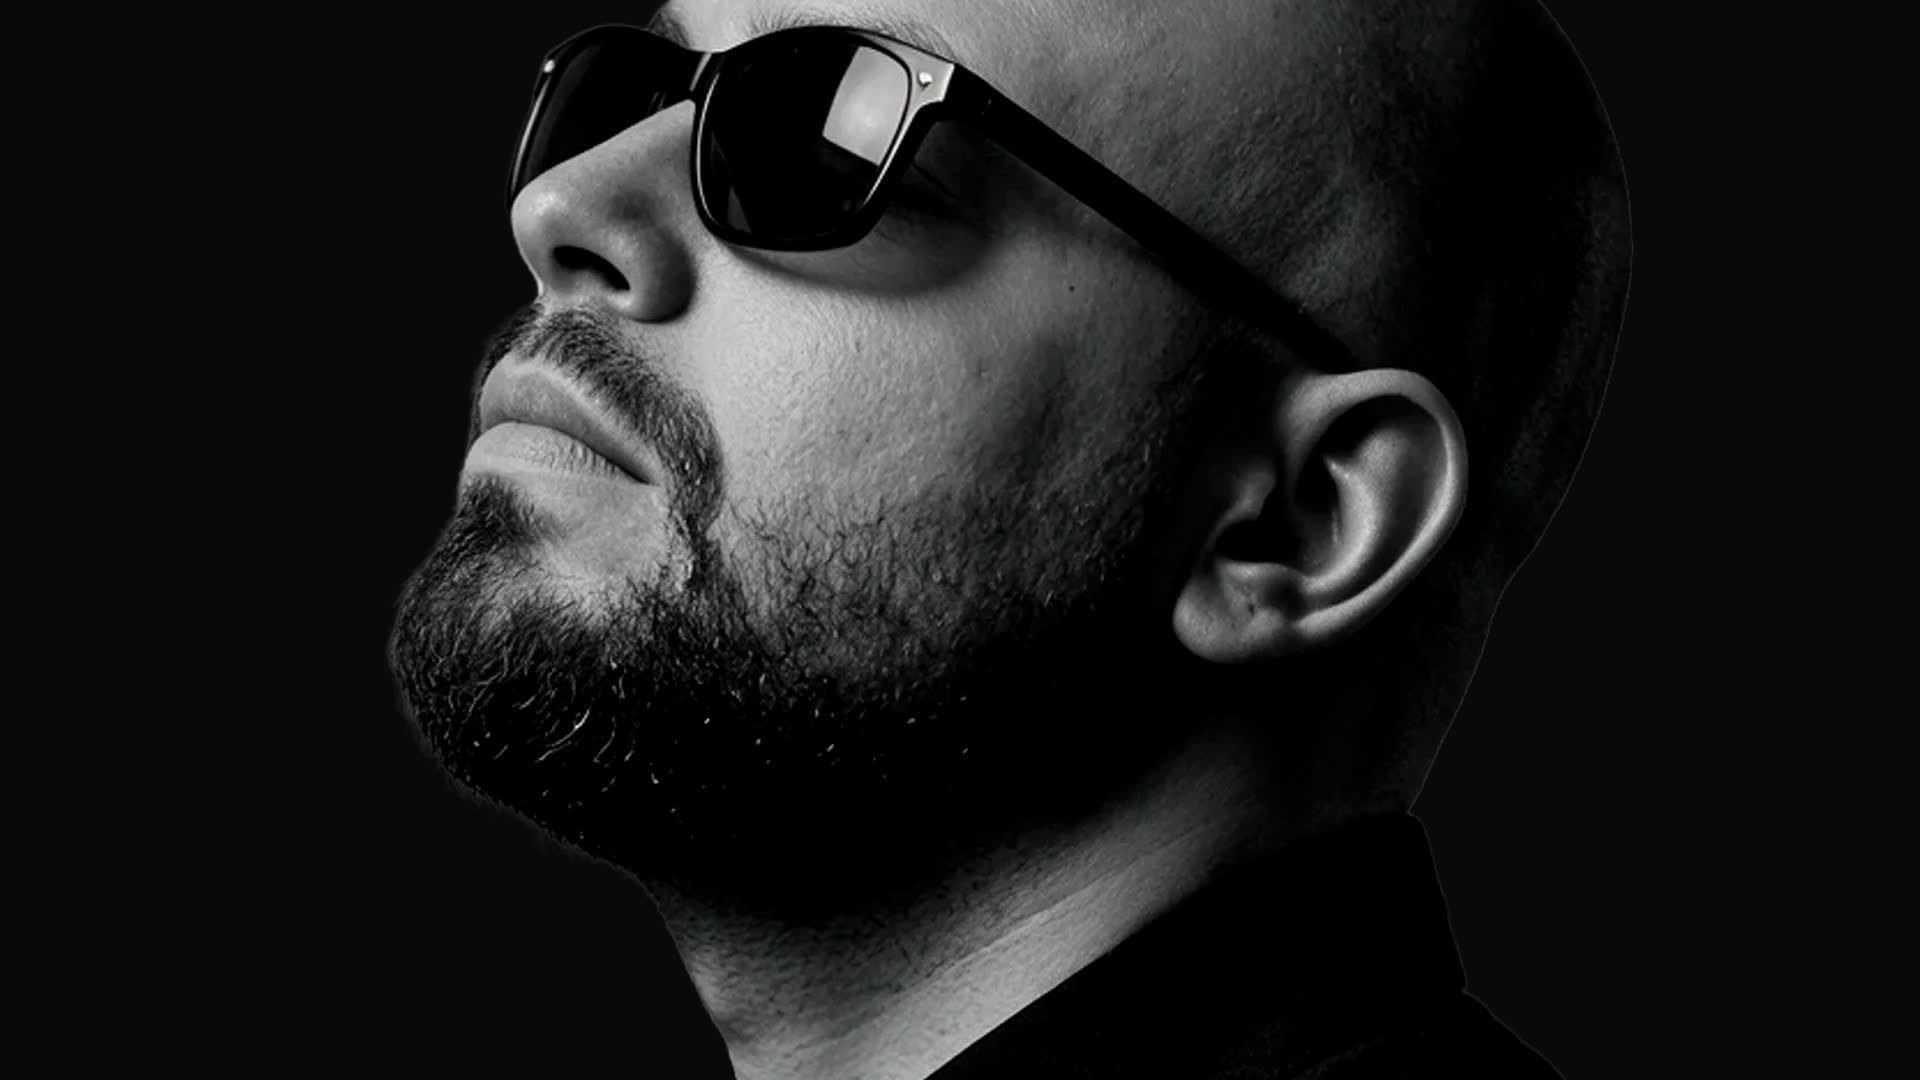
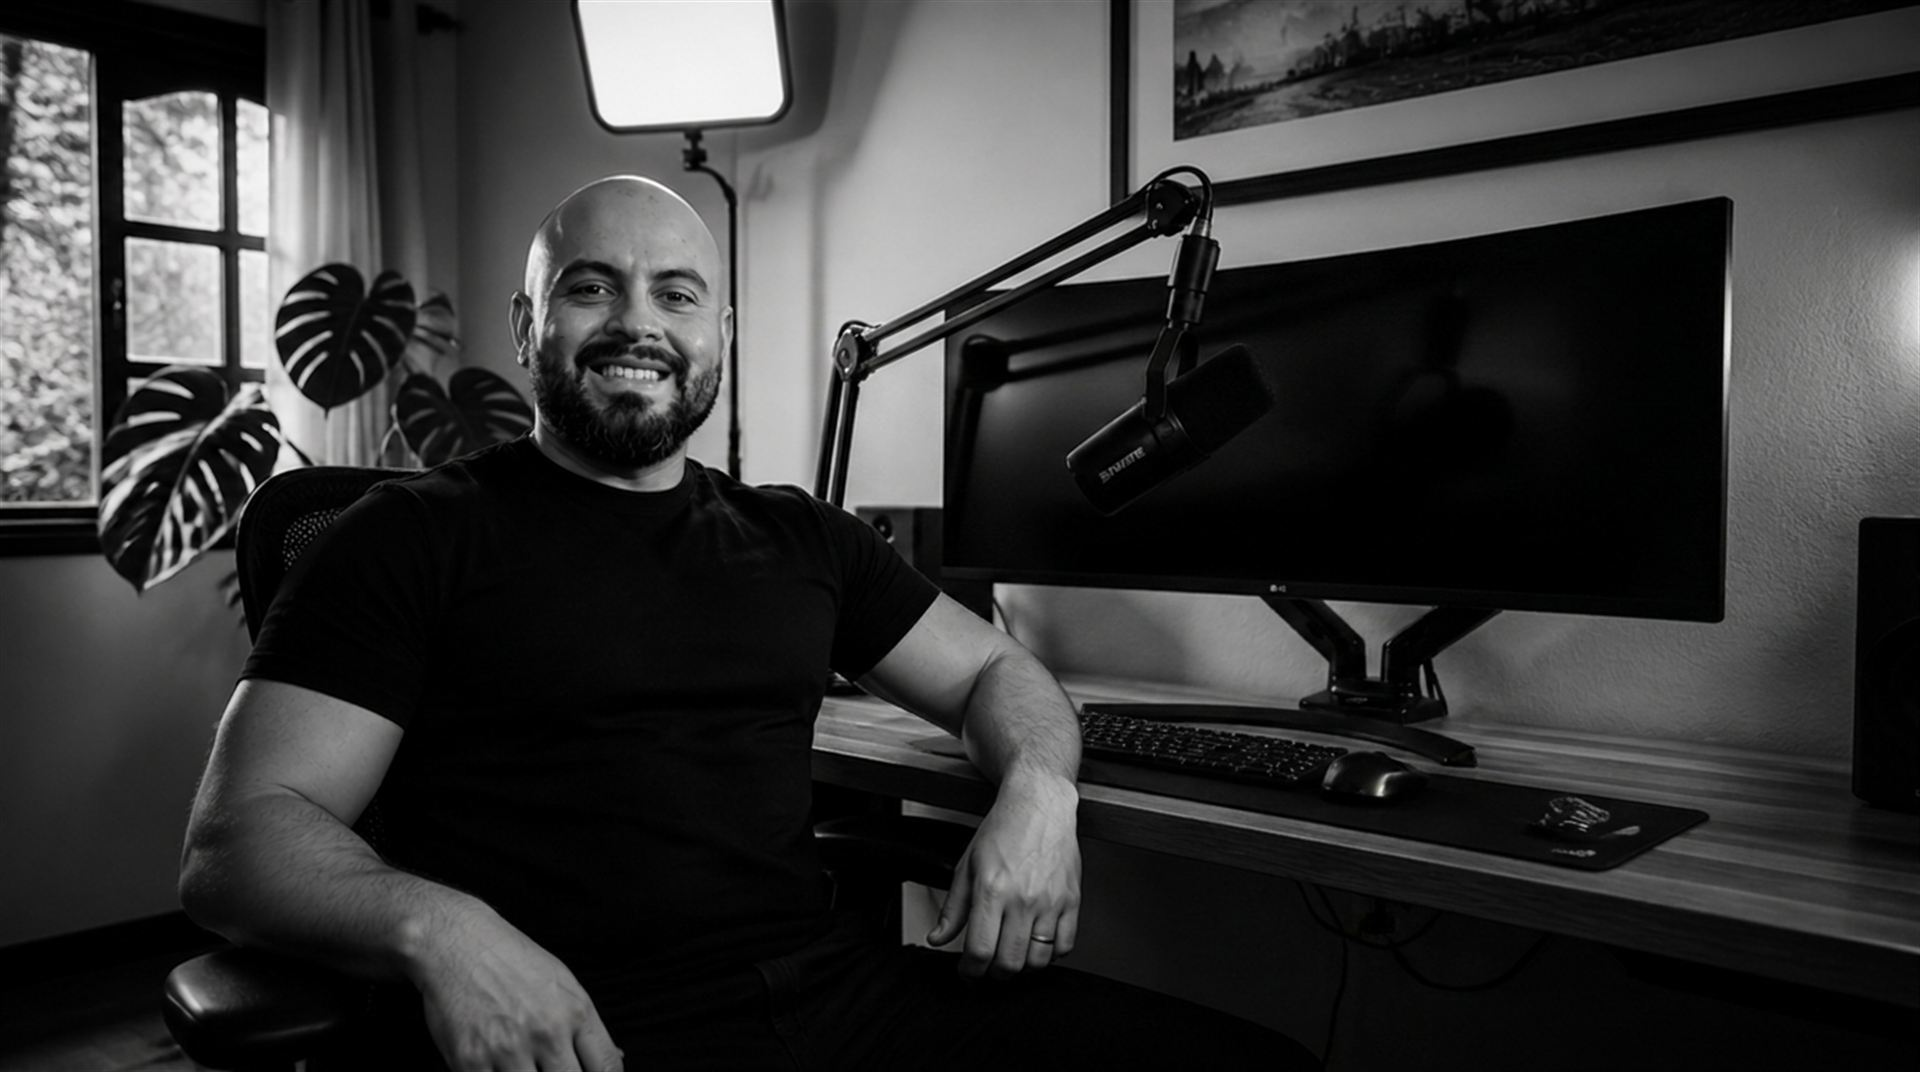
feat: reposicionar como blog de tecnologia abrangente + novo background + clean
- Hero/footer: CRIPTO -> Blockchain; tagline ampliada (Web3, Programação, Segurança)
- Novo background do hero (foto enviada, comprimida: 1,24MB -> 153KB @1920px)
- Removido cursor customizado (navegacao nativa, mais rapido)
- Textos ampliados para SEO de conhecimentos gerais de tecnologia
- Post: Banco Central frear inovacao nas criptomoedas

diff --git a/src/scripts/blog.js b/src/scripts/blog.js
@@ -9,7 +9,6 @@
   const reducedMotion = window.matchMedia('(prefers-reduced-motion: reduce)').matches;
   const hasGsap = typeof window.gsap !== 'undefined';
   const body = document.body;
-  const finePointer = window.matchMedia('(hover: hover) and (pointer: fine)').matches;
 
   /* ---------- 1. Preloader (VU-meter, igual ao site oficial) ---------- */
   const preloader = document.querySelector('.preloader');
@@ -128,53 +127,7 @@
     body.classList.remove('is-loading');
   }
 
-  /* ---------- 2. Cursor customizado ---------- */
-  const scrollCursor = document.querySelector('.scroll-cursor');
-  if (scrollCursor && finePointer) {
-    const cursorPosition = { currentX: -120, currentY: -120, targetX: -120, targetY: -120 };
-    const interactiveSelector = 'a, button, [role="button"], input, select, textarea, label, summary';
-
-    const renderCursor = () => {
-      const ease = reducedMotion ? 1 : 0.2;
-      cursorPosition.currentX += (cursorPosition.targetX - cursorPosition.currentX) * ease;
-      cursorPosition.currentY += (cursorPosition.targetY - cursorPosition.currentY) * ease;
-      scrollCursor.style.setProperty('--cursor-x', `${cursorPosition.currentX}px`);
-      scrollCursor.style.setProperty('--cursor-y', `${cursorPosition.currentY}px`);
-      requestAnimationFrame(renderCursor);
-    };
-
-    window.addEventListener('pointermove', (event) => {
-      if (event.pointerType && event.pointerType !== 'mouse') return;
-      cursorPosition.targetX = event.clientX;
-      cursorPosition.targetY = event.clientY;
-      if (reducedMotion) {
-        cursorPosition.currentX = event.clientX;
-        cursorPosition.currentY = event.clientY;
-      }
-      body.classList.add('cursor-ready');
-    }, { passive: true });
-
-    document.documentElement.addEventListener('mouseleave', () => {
-      body.classList.remove('cursor-ready', 'cursor-link');
-    });
-
-    document.addEventListener('pointerover', (event) => {
-      if (event.pointerType && event.pointerType !== 'mouse') return;
-      body.classList.toggle('cursor-link', Boolean(event.target.closest(interactiveSelector)));
-    }, { passive: true });
-    document.addEventListener('pointerout', (event) => {
-      if (event.pointerType && event.pointerType !== 'mouse') return;
-      const nextTarget = event.relatedTarget;
-      body.classList.toggle(
-        'cursor-link',
-        nextTarget instanceof Element && Boolean(nextTarget.closest(interactiveSelector)),
-      );
-    }, { passive: true });
-
-    requestAnimationFrame(renderCursor);
-  }
-
-  /* ---------- 3. Tagline rotativa (estilo "Breathing") ---------- */
+  /* ---------- 2. Tagline rotativa (estilo "Breathing") ---------- */
   const taglineWord = document.querySelector('.tagline-word');
   if (taglineWord && typeof window.BLOG_TAGLINE_WORDS !== 'undefined') {
     const words = window.BLOG_TAGLINE_WORDS;
@@ -194,7 +147,7 @@
     }
   }
 
-  /* ---------- 4. Reveals on-scroll ---------- */
+  /* ---------- 3. Reveals on-scroll ---------- */
   const revealElements = Array.from(document.querySelectorAll('[data-reveal]'));
   if (revealElements.length) {
     if (reducedMotion || typeof IntersectionObserver === 'undefined') {
@@ -215,7 +168,7 @@
     }
   }
 
-  /* ---------- 5. Header: vidro ao rolar ---------- */
+  /* ---------- 4. Header: vidro ao rolar ---------- */
   const header = document.querySelector('.site-header');
   if (header) {
     const onScroll = () => {
@@ -225,7 +178,7 @@
     window.addEventListener('scroll', onScroll, { passive: true });
   }
 
-  /* ---------- 6. Ano dinâmico no rodapé ---------- */
+  /* ---------- 5. Ano dinâmico no rodapé ---------- */
   document.querySelectorAll('[data-year]').forEach((el) => {
     el.textContent = String(new Date().getFullYear());
   });

diff --git a/src/styles/global.css b/src/styles/global.css
@@ -268,42 +268,6 @@ body.is-loading {
 }
 
 /* ============================================================
-   CURSOR CUSTOMIZADO
-   ============================================================ */
-.scroll-cursor {
-  --cursor-size: 3rem;
-  position: fixed;
-  top: 0;
-  left: 0;
-  z-index: 4000;
-  width: var(--cursor-size);
-  height: var(--cursor-size);
-  border: 1px solid rgba(var(--accent-rgb), 0.75);
-  border-radius: 50%;
-  pointer-events: none;
-  transform: translate(calc(var(--cursor-x, -120px) - 50%), calc(var(--cursor-y, -120px) - 50%));
-  opacity: 0;
-  transition: opacity 0.3s ease, width 0.25s ease, height 0.25s ease, border-color 0.25s ease, background 0.25s ease;
-  mix-blend-mode: difference;
-}
-
-body.cursor-ready .scroll-cursor {
-  opacity: 1;
-}
-
-body.cursor-link .scroll-cursor {
-  width: calc(var(--cursor-size) * 1.9);
-  height: calc(var(--cursor-size) * 1.9);
-  background: rgba(var(--accent-rgb), 0.08);
-}
-
-@media (max-width: 900px), (pointer: coarse) {
-  .scroll-cursor {
-    display: none;
-  }
-}
-
-/* ============================================================
    HEADER
    ============================================================ */
 .site-header {
@@ -510,8 +474,8 @@ body.cursor-link .scroll-cursor {
 .hero-title {
   font-family: var(--font-display);
   font-weight: 400;
-  font-size: clamp(3.6rem, 12vw, 8.5rem);
-  line-height: 0.9;
+  font-size: clamp(3rem, 11vw, 8.5rem);
+  line-height: 0.92;
   text-transform: uppercase;
   letter-spacing: 0.01em;
   margin: 0 0 1.6rem;

diff --git a/src/consts.ts b/src/consts.ts
@@ -1,6 +1,6 @@
 export const SITE_TITLE = 'Pedro dApps — Blog';
 export const SITE_DESCRIPTION =
-  'Inteligência Artificial e Blockchain: bastidores, análises e experimentos do canal Pedro dApps.';
+  'Conhecimentos gerais de tecnologia: Inteligência Artificial, Blockchain, Web3, programação, segurança e muito mais — explicados de forma direta e prática.';
 export const AUTHOR = 'Pedro Magalhães';
 export const YOUTUBE_URL = 'https://www.youtube.com/@pedro_dapps';
 export const MAIN_SITE_URL = 'https://pedrodapps.com';
@@ -30,6 +30,7 @@ export const TAGLINE_WORDS = [
   'Negócios',
   'IA',
   'Blockchain',
-  'Cripto',
-  'Criação',
+  'Web3',
+  'Programação',
+  'Segurança',
 ];

diff --git a/src/pages/rss.xml.js b/src/pages/rss.xml.js
@@ -9,7 +9,7 @@ export async function GET(context) {
   return rss({
     title: 'Pedro dApps — Blog',
     description:
-      'Inteligência Artificial e Blockchain: bastidores, análises e experimentos do canal Pedro dApps.',
+      'Conhecimentos gerais de tecnologia: Inteligência Artificial, Blockchain, Web3, programação, segurança e muito mais.',
     site: context.site,
     items: posts.map((post) => ({
       title: post.data.title,

diff --git a/src/content/blog/bc-cripto-frear-inovacao.md b/src/content/blog/bc-cripto-frear-inovacao.md
@@ -1,0 +1,83 @@
+---
+title: "Banco Central explica por que, às vezes, é preciso 'frear a inovação' nas criptomoedas"
+description: "Nagel Paulino, do Banco Central, falou no Blockchain Rio sobre por que a regulação de cripto precisa acompanhar o crescimento do setor — e o que o BC observa nas stablecoins."
+pubDate: 2026-08-30
+tags: ["cripto", "blockchain", "regulação", "brasil"]
+cover: "/posters/blockchain.jpg"
+---
+
+Nesta quarta-feira (12), em um painel do Criptorama in Rio — palco da ABcripto dentro do Blockchain Rio —, Nagel Paulino, representante do Banco Central do Brasil, afirmou que, em certas situações, é necessário "frear a inovação" para assegurar que o avanço do mercado de criptomoedas ocorra ao lado de regras de proteção, controles e mecanismos de prevenção à lavagem de dinheiro.
+
+> "Às vezes precisamos frear a inovação para que o setor possa avançar", disse.
+
+Paulino explicou que a relação dos órgãos reguladores com os ativos digitais atravessou uma longa trajetória de entendimento. No começo, segundo ele, o mercado despertava atenção sobretudo pela volatilidade, por projetos que não prosperaram e pela atuação de agentes que se aproveitaram da expansão das criptomoedas para aplicar fraudes.
+
+Com o passar dos anos, porém, a própria procura dos brasileiros por ativos digitais cresceu e contribuiu para transformar o olhar do regulador sobre o setor.
+
+> "Aconteceu também que a demanda surgiu. Pesquisas mostravam a adoção dos brasileiros, as pessoas queriam adquirir ativos digitais. Quando você tem um lado de demanda e a criação de um ecossistema, o regulador entra para trazer regras que tragam proteção", afirmou.
+
+## Regulação ainda vai evoluir
+
+Mesmo com o endurecimento das exigências, Paulino ressaltou que as normas atuais não devem ser encaradas como definitivas. Para ele, a regulamentação precisará se adaptar conforme a indústria apresente novas tecnologias, serviços e riscos.
+
+> "Essa primeira regulação vai mudar ao longo do tempo com novas [regras] e refletir a inovação", afirmou.
+
+O representante do BC lembrou que esse movimento já ocorreu antes em outros segmentos do sistema financeiro. Quando uma inovação amadurece e ganha caráter institucional, a relação entre empresas e regulador também tende a se tornar mais organizada.
+
+Nesse sentido, a mensagem da autoridade monetária não foi de oposição à inovação, mas de que o avanço do setor altera o nível de responsabilidade exigido das empresas. Quanto maior a adoção e a integração das criptomoedas ao sistema financeiro, maior também deve ser, na visão do regulador, a presença de governança, proteção ao consumidor e prevenção a crimes financeiros.
+
+## Stablecoins: reservas e segurança jurídica em foco
+
+Ao falar especificamente das stablecoins, Nagel afirmou que o Banco Central observa com atenção a composição das reservas que sustentam esses ativos — incluindo onde os recursos estão alocados, a jurisdição das instituições responsáveis e os riscos que podem emergir em cenários de estresse.
+
+> "Segurança jurídica é um ponto fundamental para nós", afirmou.
+
+De acordo com ele, o regulador precisa avaliar como as stablecoins são estruturadas, quais ativos lastreiam sua emissão e quais obrigações incidem sobre as instituições envolvidas.
+
+Nagel também enfatizou a importância do alinhamento entre ativos e passivos. Na avaliação do BC, problemas nos ativos mantidos em reserva podem comprometer a capacidade de uma instituição de honrar seus compromissos, sobretudo em momentos de forte pressão ou de aumento nos pedidos de resgate.
+
+O representante do Banco Central reconheceu, contudo, que certas exigências regulatórias podem elevar os custos operacionais e gerar diferenças em relação a estruturas submetidas a regras distintas. Para ele, esse equilíbrio deve considerar tanto a segurança proporcionada pelas reservas quanto as particularidades e os objetivos de cada modelo de stablecoin.
+
+## Os próximos passos do BC
+
+Nagel também ressaltou o papel das consultas públicas na construção das regras. Segundo ele, o mecanismo permite que uma percepção inicial do Banco Central seja questionada, complementada ou aprimorada pelas empresas e demais participantes do mercado.
+
+> "A gente faz consulta pública justamente porque ela ajuda a melhorar a nossa percepção. Nós temos uma percepção inicial, mas ela pode ser refutada ou aprimorada a partir do diálogo com o mercado e com os participantes", disse.
+
+Segundo Nagel, algumas discussões anteriores chegaram a produzir interpretações sobre os próximos movimentos do Banco Central que não correspondiam exatamente ao que estava sendo analisado internamente. Por isso, o diálogo com o mercado também funciona como um meio de esclarecer os objetivos do regulador e medir os impactos práticos das alternativas em estudo.
+
+Ele destacou que, no momento, não há uma nova consulta pública aberta sobre o tema, mas afirmou que o BC pretende aprofundar o debate antes de definir os próximos passos.
+
+> "Agora precisamos avaliar qual é o próximo passo para o Brasil, se já estamos em um estágio em que podemos avançar para uma nova etapa ou se ainda precisamos amadurecer alguns pontos antes disso", afirmou.
+
+## O Marco Legal colocou as criptomoedas na agenda do BC
+
+De acordo com Paulino, um dos principais pontos de virada foi a criação do Marco Legal dos Ativos Virtuais, que atribuiu ao Banco Central a responsabilidade de regulamentar as prestadoras de serviços de ativos virtuais. A partir daí, disse, o tema ganhou outra dimensão dentro da autoridade monetária.
+
+> "Quando tivemos o marco regulatório cripto, o mercado tomou outra dinâmica e virou uma matéria relevante do Banco Central", declarou.
+
+O processo culminou na publicação das Resoluções BCB 519, 520 e 521 (além de outras ligadas ao mercado cripto), que definiram regras para autorização e funcionamento das prestadoras de serviços de ativos virtuais e enquadraram determinadas operações com criptoativos nas normas cambiais e de capitais internacionais.
+
+Em apresentação ao Senado em maio de 2026, o próprio Banco Central destacou as três resoluções entre as medidas adotadas para fortalecer a resiliência do Sistema Financeiro Nacional. Segundo o BC, as normas criaram as sociedades prestadoras de serviços de ativos virtuais e estabeleceram regras para autorização e prestação desses serviços.
+
+## "O desafio é grande", admite o BC
+
+Paulino reconheceu que a regulamentação atual não representa o encerramento do processo. Na avaliação do representante do BC, a tecnologia continuará evoluindo e novos produtos e modelos de negócio obrigarão o regulador a acompanhar o mercado de forma permanente.
+
+> "A evolução continua", afirmou.
+
+Segundo ele, o Banco Central busca compreender os novos fenômenos e responder à medida que eles ganham relevância, embora essa tarefa represente um grande desafio.
+
+É nesse contexto que se insere a declaração sobre a necessidade de, em certos momentos, limitar a velocidade da inovação. Na visão apresentada durante o painel, o desenvolvimento tecnológico não pode ocorrer desvinculado de regras de proteção e segurança quando uma atividade passa a ter relevância para o sistema financeiro.
+
+Paulino apontou solidez regulatória, controles e mecanismos de prevenção à lavagem de dinheiro entre os elementos necessários nesta nova etapa do mercado de ativos digitais. A Resolução 520, por exemplo, passou a disciplinar formalmente a constituição e o funcionamento das sociedades prestadoras de serviços de ativos virtuais, além da própria prestação desses serviços no Brasil.
+
+## O que observar
+
+A fala do BC confirma uma tendência que já vinha se desenhando: cripto deixou de ser tratada como exceção e passou a ser enquadrada como parte do sistema financeiro — com as mesmas cobranças de governança, proteção e prevenção que valem para os demais agentes. Para quem acompanha o tema, o sinal é claro: a regulação vai continuar mudando, e as stablecoins são o próximo capítulo.
+
+Leia também: [O que é o Drex e por que ele importa](/posts/o-que-e-o-drex-e-por-que-ele-importa/)
+
+---
+
+> Fonte: [Cointelegraph Brasil](https://cointelegraph.com.br/news/brazilian-central-bank-blockchain)

diff --git a/src/content/blog/bem-vindo-ao-blog-do-pedro-dapps.md b/src/content/blog/bem-vindo-ao-blog-do-pedro-dapps.md
@@ -1,26 +1,31 @@
 ---
 title: "Bem-vindo ao blog do Pedro dApps"
-description: "Por que este blog existe, o que você vai encontrar por aqui e como ele se conecta com o canal no YouTube."
+description: "Um blog de conhecimentos gerais de tecnologia: IA, Blockchain, Web3, programação, segurança e mais — com o objetivo de reunir conteúdo de qualidade em um só lugar."
 pubDate: 2026-08-30
-tags: ["canal", "IA", "blockchain"]
+tags: ["tecnologia", "IA", "blockchain"]
 ---
 
-Este é o ponto de partida de uma nova rotina de escrita: o blog oficial do canal. Se você chegou aqui vindo do YouTube, já sabe que por lá o assunto é **Inteligência Artificial** e **Blockchain** — e por aqui vai ser a mesma coisa, só que com mais tempo para aprofundar.
+Este é o ponto de partida de uma nova rotina de escrita: o blog oficial do Pedro dApps.
+Aqui o assunto é **tecnologia em geral** — Inteligência Artificial, Blockchain, Web3,
+programação, segurança, infraestrutura, ferramentas e tendências — explicado de forma
+direta e prática.
 
-## Por que um blog?
+## Por que um blog de tecnologia abrangente?
 
-O formato de vídeo é ótimo para introduzir ideias, mostrar telas e explicar passo a passo. Mas tem um limite: é difícil linkar fontes, revisar conceitos e manter tudo pesquisável. O blog resolve isso — cada post vira um **registro permanente** que os vídeos podem citar.
+O objetivo é reunir em um só lugar conteúdos e informações úteis para quem trabalha com
+tecnologia ou quer aprender. Em vez de um recorte único, o blog cobre o ecossistema inteiro:
 
-> Escrita é pensar duas vezes. O blog é onde o canal faz a lição de casa.
+- **IA e agentes**: modelos, automações, produtividade e o que muda no dia a dia.
+- **Blockchain e Web3**: criptomoedas, contratos inteligentes, stablecoins e o Drex.
+- **Programação**: tutoriais, arquitetura, DevOps e boas práticas de engenharia.
+- **Segurança**: análise de código, vulnerabilidades e proteção de dados.
 
-## O que você vai encontrar
-
-- **Análises** de novidades em IA e blockchain, sem histeria e sem promessa fácil de dinheiro.
-- **Experimentos práticos**: projetos que eu construo e desconstruo ao vivo.
-- **Bastidores** do canal: como um vídeo nasce, do roteiro ao upload.
+> O blog é onde a tecnologia vira texto: pesquisável, linkável e sempre disponível.
 
 ## Como acompanhar
 
-O blog tem [feed RSS](/rss.xml) para você usar no seu leitor favorito. E, claro, todo post relevante vira vídeo no canal — se você ainda não é inscrito, essa é a deixa.
+O blog tem [feed RSS](/rss.xml) para você usar no seu leitor favorito. E os vídeos do
+canal no YouTube continuam sendo a outra ponta — conteúdo em vídeo para quem prefere ver
+na prática.
 
 Nos vemos por aqui.

diff --git a/README.md b/README.md
@@ -1,9 +1,11 @@
 # Pedro dApps — Blog
 
-Blog oficial do canal **Pedro dApps** (Inteligência Artificial + Blockchain), construído com
-[Astro](https://astro.build/). Mantém a identidade visual completa do site principal:
-tema escuro, fontes **Anton + Manrope + Playfair Display**, grão cinematográfico,
-preloader VU-meter, Ken Burns, cursor customizado, logo, favicons e botão de inscrição.
+Blog de **conhecimentos gerais de tecnologia** do Pedro dApps — Inteligência Artificial,
+Blockchain, Web3, programação, segurança e muito mais — construído com [Astro](https://astro.build/).
+Mantém a identidade visual do site principal: tema escuro, fontes **Anton + Manrope +
+Playfair Display**, grão cinematográfico, preloader VU-meter, Ken Burns, logo, favicons e
+botão de inscrição. O objetivo do blog é centralizar conteúdo de qualidade para ganhar
+tráfego orgânico (SEO) — quanto mais abrangente, melhor.
 
 ## 🌐 Rotas (duas URLs servindo o mesmo blog)
 
